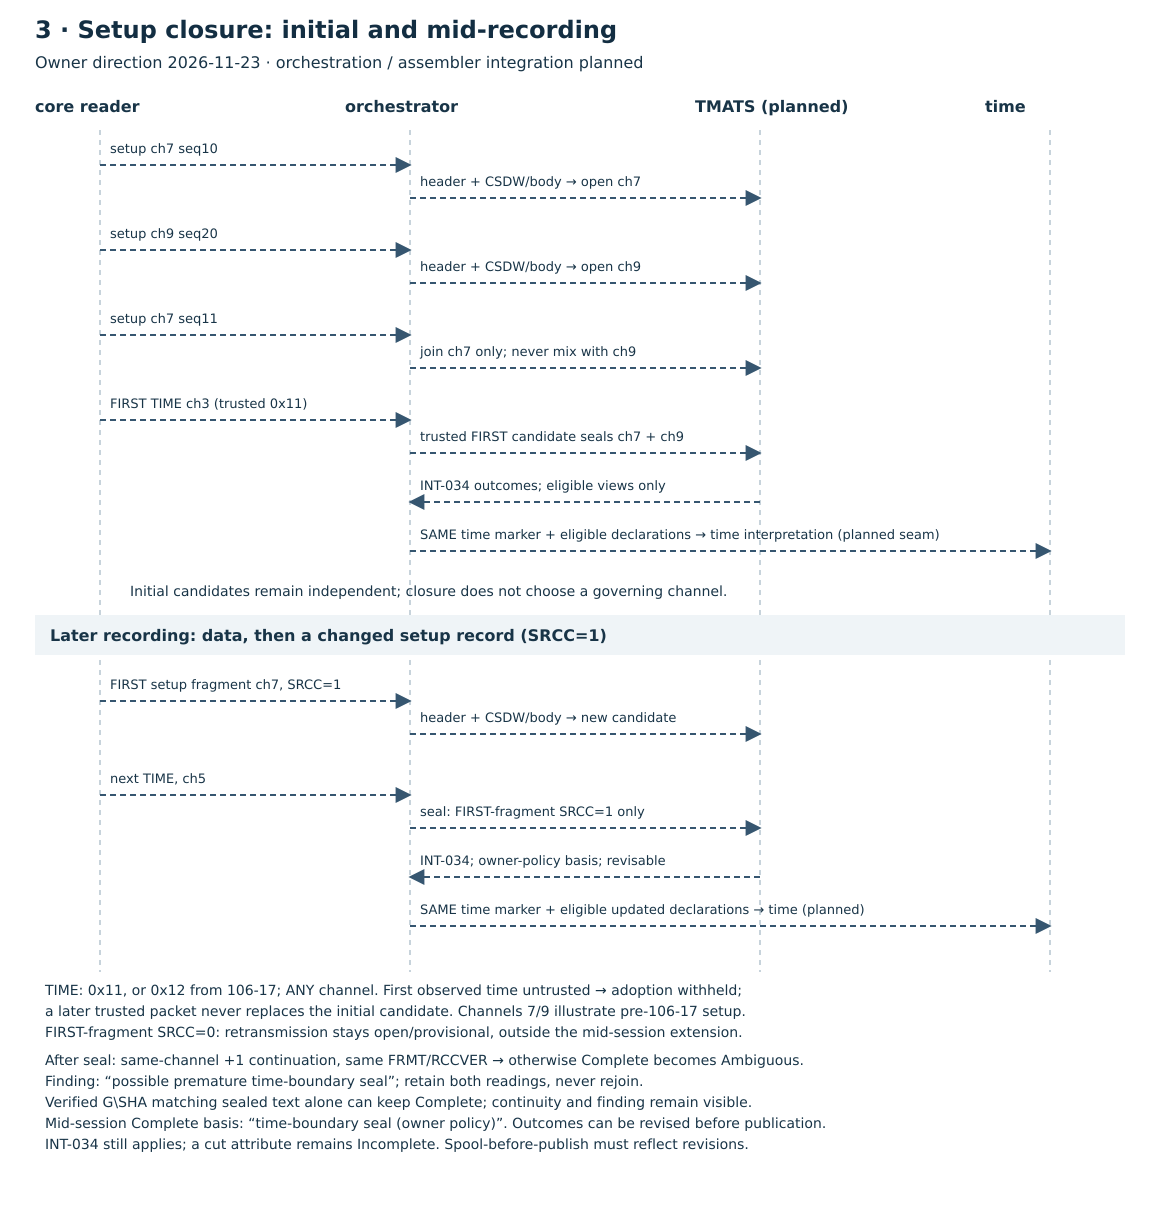
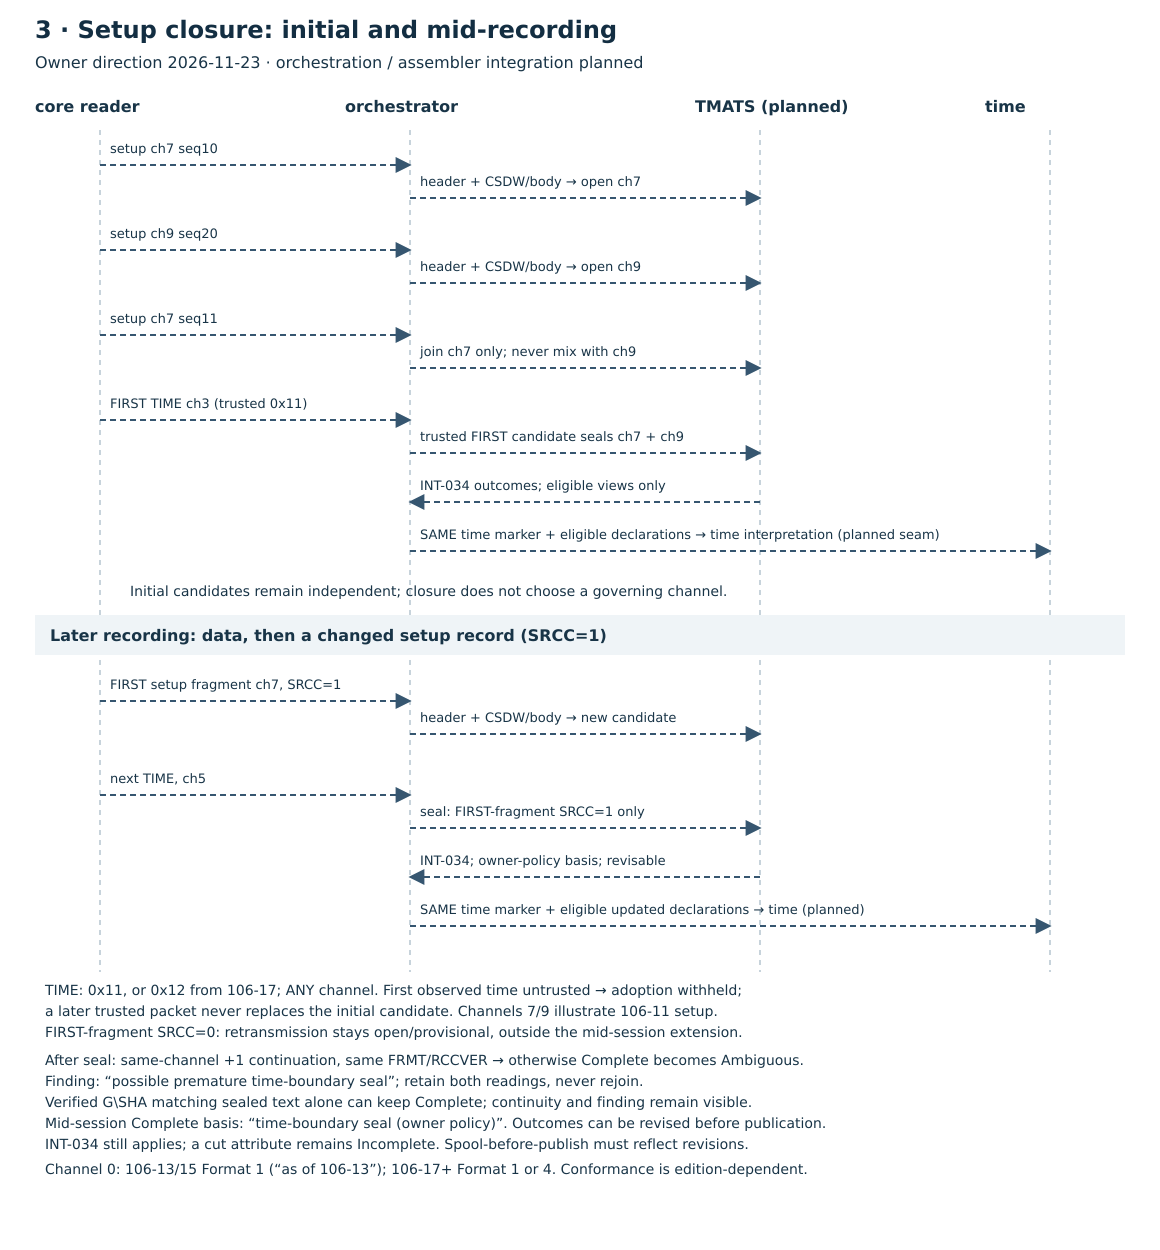
docs: clarify budget exhaustion, EOF corroboration and channel editions

diff --git a/src/architecture/pipeline.md b/src/architecture/pipeline.md
@@ -97,8 +97,12 @@ carry-forward or provisional-use policy is invented here.
 
 - **Join per channel (INT-011).** Other-channel setup fragments never mix with
   or interrupt a run. Preserve sequence progression, FRMT/RCCVER agreement,
-  fragment provenance, and start/stop evidence. The channel-0 restriction from
-  106-17 is an independent conformance check, not permission to merge runs.
+  fragment provenance, and start/stop evidence. Channel 0 is edition-dependent:
+  **106-13 and 106-15** reserve it for Computer-Generated **Format 1**, with
+  wording “as of 106-13”; **106-17 and later** allow Computer-Generated
+  **Format 1 or 4**. Apply the applicable edition's conformance rule separately;
+  it is never permission to merge per-channel runs. Diagram 3's nonzero setup
+  channels illustrate **106-11**, not every edition before 106-17.
 - **Initial closure (INT-045).** The **first observed TIME candidate** on any
   channel supplies the initial boundary only if it is structurally trusted and
   eligible. If that first candidate is untrusted, adoption is withheld; a later
@@ -229,8 +233,12 @@ policy, not a claim that core 0.1 enforces these packet-size limits. See the
 **Hard ceiling for standard-violating packets.** A caller may configure a hard
 ceiling beyond the applicable soft limit, but acceptance requires corroboration:
 
-- **Seekable input:** validate a next header at `packet_offset + Packet Length`
-  with checked offset arithmetic; the declared length alone is not evidence.
+- **Seekable input:** corroborate `packet_offset + Packet Length` using checked
+  arithmetic: a valid next header at that offset, **or an end offset exactly
+  equal to known EOF**, qualifies. A packet ending exactly at EOF has no next
+  header to validate. An end offset beyond EOF does not qualify; neither does
+  EOF encountered before the declared end. The declared length alone is not
+  evidence.
 - **Stream input:** require explicit caller opt-in for standard-violating packet
   acceptance. Do not infer permission from the length or from arriving bytes.
 
@@ -242,8 +250,11 @@ packet. Detailed defaults, errors and evidence are still slice-1 design work.
 
 **Aggregate budget, not per-buffer multiplication.** Account for allocated
 capacity across **all** reader, pool, queued and worker-owned buffers, counting
-each owned buffer once. Pause reading/growth when the budget cannot admit more
-bytes; ownership returns and shrink release capacity. Bounded queues provide
+each owned buffer once. Pause reading/growth when capacity can become available
+through other buffers returning or shrinking. **An impossible fit must not wait:**
+if the packet cannot fit even with every other buffer returned and all budget
+available to it, give a **typed error or a reported drain**. Do not deadlock by
+waiting for backpressure to resolve a packet larger than the whole budget. Bounded queues provide
 backpressure rather than creating more memory. Shrink policy and separately
 bounded semantic/queue metadata must be specified and tested. **Chunked delivery
 is optional** for incremental decoders, not the default skip/chunk model.
@@ -279,7 +290,9 @@ arriving, never by reservation of declared Packet Length. Automatically allow
 the applicable standard soft limit (524,288 bytes; Format 1 setup 134,217,728,
 Chapter 11 §11.2.1(c), Table 11-3), subject to the aggregate budget. Beyond that,
 require a caller-set hard ceiling **and** corroboration: a valid next header at
-`offset + Packet Length` on seekable input, or explicit opt-in on streams.
+`offset + Packet Length` **or an end offset exactly at known EOF** on seekable
+input, or explicit opt-in on streams. A short/truncated packet ending before its
+declared end is not corroborated by EOF.
 Above the permitted ceiling, issue a typed error or reported drain. Shrink back
 after rare large packets. Optional fixed-size chunks support incremental
 decoders; skip/chunk is not the proposed default.
@@ -309,8 +322,10 @@ and no unlimited buffer creation when workers fall behind.
 **Budget all buffer owners together.** Sum allocated capacities across the
 reader, available pool, queues and workers, counting each moved buffer once.
 Growth must fit the **aggregate memory budget**, not a “pool size × fixed cap”
-formula. If memory or queue capacity is unavailable, apply backpressure; return
-and shrink buffers to free budget after rare large packets. Separately bound
+formula. If memory or queue capacity is temporarily unavailable, apply backpressure;
+return and shrink buffers to free budget after rare large packets. If a packet
+could not fit even with all other buffers returned, use a typed error or reported
+drain instead of waiting forever. Separately bound
 assembler, queue metadata and worker state; the buffer budget is not total RSS.
 
 **Live streaming.** Use the same ownership and dispatch shape for network or
